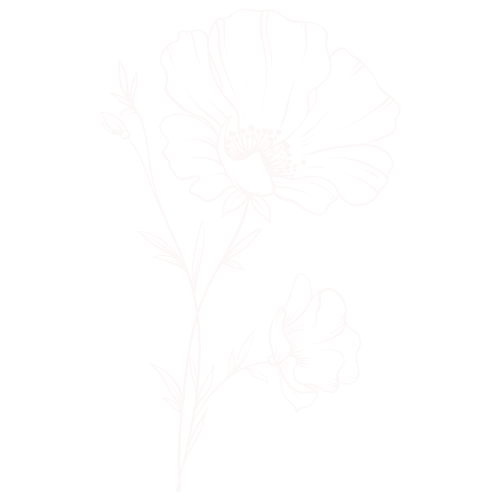
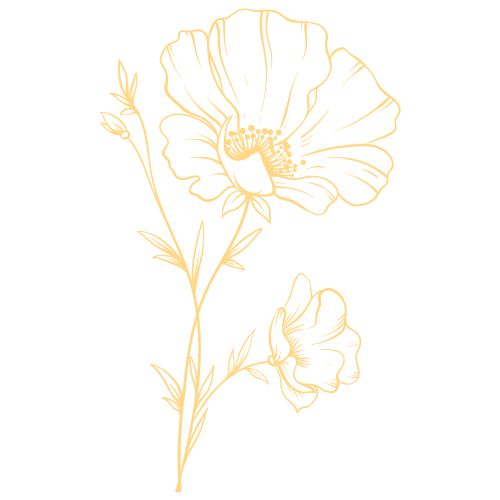
Updated "decorative-flower" in the About & CTA section. Deleted "product7.jpg"

diff --git a/src/components/CTA.jsx b/src/components/CTA.jsx
@@ -36,7 +36,12 @@ const CTA = () => {
       <img
         src="/images/decorative-flower1.png"
         alt=""
-        className="absolute -right-20 -bottom-20 w-[450px] opacity-15 pointer-events-none z-0"
+        className="absolute -right-20 -bottom-20 w-[450px] opacity-50 pointer-events-none z-0 scale-x-[-1]"
+      />
+      <img
+        src="/images/decorative-flower1.png"
+        alt=""
+        className="hidden lg:block absolute -left-20 -bottom-20 w-[450px] opacity-50 pointer-events-none z-0"
       />
     </section>
   );
